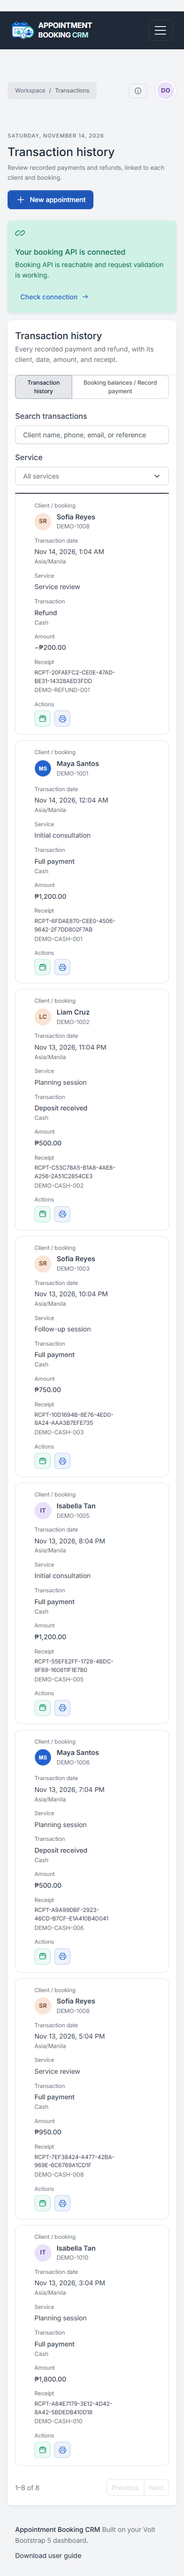
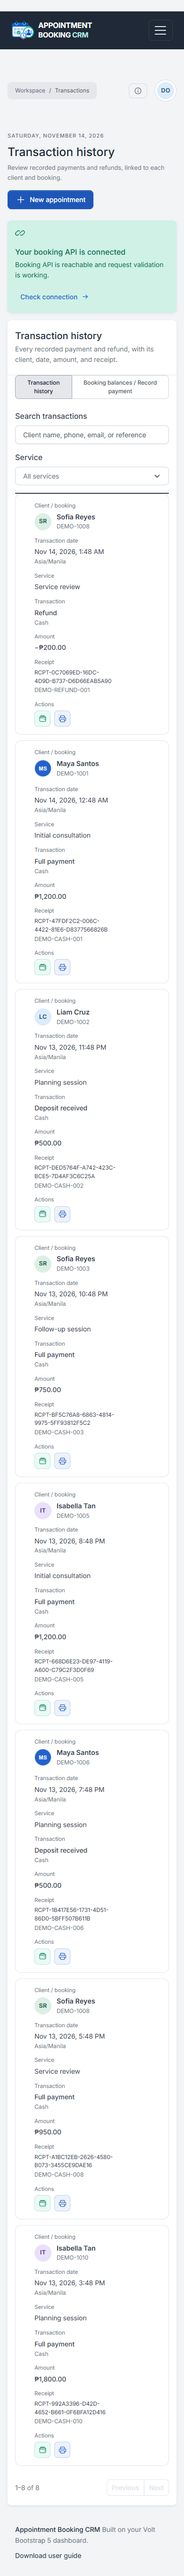
fix: align workspace layout and regenerate consistent demo screenshots

diff --git a/src/assets/css/appointments.css b/src/assets/css/appointments.css
@@ -8,6 +8,8 @@
 .skip-link { position:fixed; z-index:2000; background:#fff; padding:1rem; }
 .app-main { max-width:1920px; outline:none; }
 .sidebar { max-width:260px; z-index:1035; }
+.sidebar .sidebar-inner { height:auto!important; min-height:100%; overflow:visible; }
+.sidebar .sidebar-inner > * { flex-shrink:0; }
 .brand-link { display:flex; align-items:center; gap:9px; padding:4px 0; background:transparent; color:#fff; text-decoration:none; }
 .brand-link:hover { color:#fff; }
 .brand-symbol { display:block; flex:0 0 48px; width:48px; height:40px; overflow:hidden; position:relative; }
@@ -124,7 +126,7 @@
 #instruction-tabs .nav-link { font-size:.82rem; }
 .calendar-view #right-column,.automation-view #right-column { width:100%; }
 .calendar-view #calendar-section { max-width:none; margin:0; }
-.automation-view #automation-section { max-width:950px; margin:auto; }
+.automation-view #automation-section { max-width:none; margin:0; }
 .calendar-view .calendar-days .calendar-date { aspect-ratio:1.6; font-size:1rem; border:1px solid #f2eef8; }
 .calendar-view .calendar-days .calendar-date.has-bookings:after { bottom:12px; }
 .calendar-tools { display:flex; align-items:center; justify-content:space-between; flex-wrap:wrap; gap:10px; }
@@ -359,7 +361,10 @@
   #workspace-account-modal .workspace-audit-table td:nth-child(2) { grid-row:1; }
   #workspace-account-modal .workspace-audit-table td:first-child { grid-row:2; }
 }
-@media(min-width:992px) { .app-main { padding-left:2rem; padding-right:2rem; } }
+@media(min-width:992px) {
+  .appointment-workspace { background:linear-gradient(to right,var(--bs-gray-800) 260px,var(--bs-gray-100) 260px); }
+  .app-main { padding-left:2rem; padding-right:2rem; }
+}
 @media(max-width:991.98px) { .sidebar { width:260px; } .sidebar-backdrop { top:0; } .app-main { margin-left:0; } }
 @media(max-width:575.98px) { .app-main { padding-left:1rem; padding-right:1rem; } .stat-card { min-height:160px; } .stat-card .display-5 { font-size:2rem; } .stat-label { font-size:.8rem; } #page-description { font-size:.8rem; } .search-wrap { max-width:100%; flex-basis:100%; } .calendar-view .calendar-days .calendar-date { aspect-ratio:1; font-size:.8rem; } .card-header,.card-body,.card-footer { padding-left:1rem; padding-right:1rem; } .next-action { width:100%; } .breadcrumb { font-size:.75rem; } }
 @media(prefers-reduced-motion:reduce) { *,*:before,*:after { animation:none!important; transition:none!important; scroll-behavior:auto!important; } }

diff --git a/src/assets/js/appointments.js b/src/assets/js/appointments.js
@@ -271,7 +271,7 @@
             overview: ['Overview', 'Appointment overview', 'A clear view of your bookings and what’s coming next.'],
             appointments: ['Appointments', 'Your appointments', 'Every booking, a little more organized.'],
             calendar: ['Calendar', 'Make room for what’s next', 'Your shared booking calendar. Choose a day to see the times, clients, and appointment details here.'],
-            automation: ['Automated reminders', 'Keep the conversation going', 'A closer look at your workflow’s appointment notifications.'],
+            automation: ['Automated reminders', 'Appointment reminders', 'Appointment notifications and instructions for business owners and clients.'],
             clients: ['Clients', 'Your clients', 'People, contact details, and their booking history.'],
             payments: ['Transactions', 'Transaction history', 'Review recorded payments and refunds, linked to each client and booking.'],
             reports: ['Reports', 'Reports manager', 'Review your numbers and download your workspace data.']

diff --git a/src/index.html b/src/index.html
@@ -10,7 +10,7 @@
   <link rel="stylesheet" href="/css/volt.css">
   <link rel="stylesheet" href="/assets/css/appointments.css">
 </head>
-<body>
+<body class="appointment-workspace">
   @@include('./_appointments-app.html')
   <script src="/vendor/bootstrap/dist/js/bootstrap.bundle.min.js"></script>
   <script src="/assets/js/workspace-access.js"></script>

diff --git a/src/pages/dashboard/dashboard.html b/src/pages/dashboard/dashboard.html
@@ -10,7 +10,7 @@
   <link rel="stylesheet" href="/css/volt.css">
   <link rel="stylesheet" href="/assets/css/appointments.css">
 </head>
-<body>
+<body class="appointment-workspace">
   @@include('./_appointments-app.html')
   <script src="/vendor/bootstrap/dist/js/bootstrap.bundle.min.js"></script>
   <script src="/assets/js/workspace-access.js"></script>

diff --git a/README.md b/README.md
@@ -8,6 +8,8 @@ A local appointment workspace for business owners and staff, built with **Volt /
 
 ## Application screenshots
 
+Desktop previews use the same 1440 x 1050 application viewport. Click an image to inspect it. Complete [overview](docs/screenshots/full/overview.png), [reports](docs/screenshots/full/reports.png), and [reminders](docs/screenshots/full/reminders.png) pages are available separately.
+
 | Calendar | Clients |
 | --- | --- |
 | ![Shared calendar with demo appointments](docs/screenshots/calendar.png) | ![Client directory with linked avatars](docs/screenshots/clients.png) |
@@ -60,7 +62,7 @@ npx playwright install chromium
 npm run screenshots
 ```
 
-This creates ten PNGs in `docs/screenshots/` using fictional clients, bookings, cash receipts, refunds, and a sample client logo. Temporary accounts/databases are removed when the command finishes. Your running workspace is not changed.
+This creates ten primary PNGs plus seven full-page views in `docs/screenshots/` using fictional clients, bookings, cash receipts, refunds, and a sample client logo. Temporary accounts/databases are removed when the command finishes. Your running workspace is not changed.
 
 ## Using the application
 

diff --git a/docs/screenshots/README.md b/docs/screenshots/README.md
@@ -2,4 +2,6 @@
 
 Generated from the actual application with fictional clients and a disposable database. No production database, live n8n workflow, or Gmail account is contacted.
 
+Desktop previews all use a 1440 x 1050 viewport, including the client modal. Complete page captures are in `full/`; mobile captures retain their full page so the details remain available. The sidebar rail and card alignment are application styles, not screenshot edits.
+
 Regenerate with `npm run screenshots`. Dates follow the current Asia/Manila calendar.
